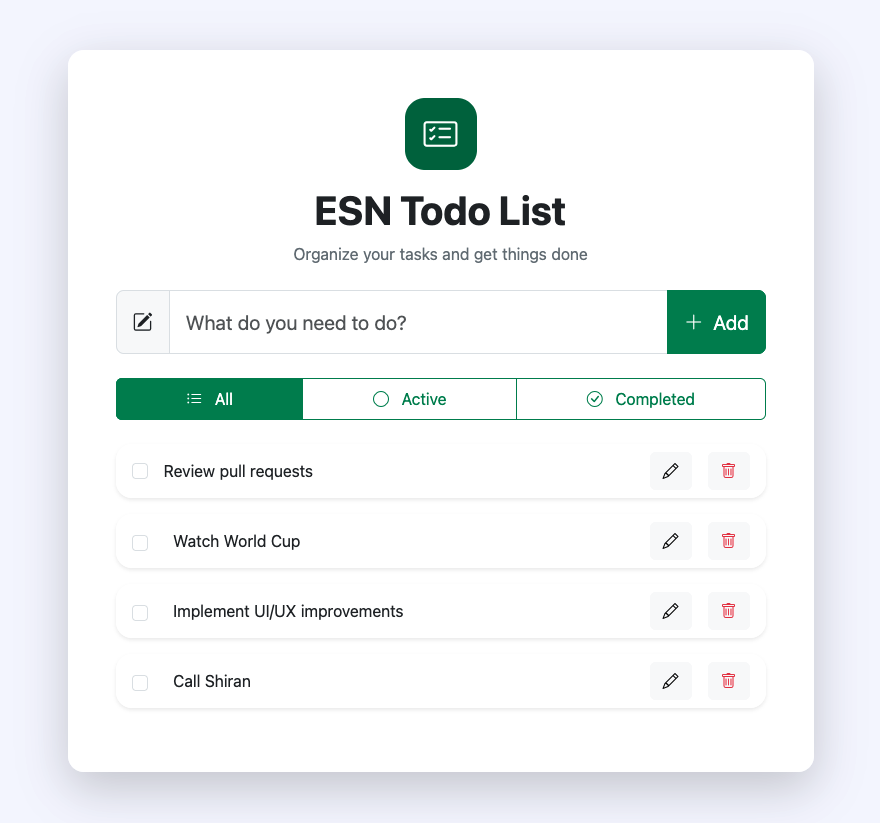
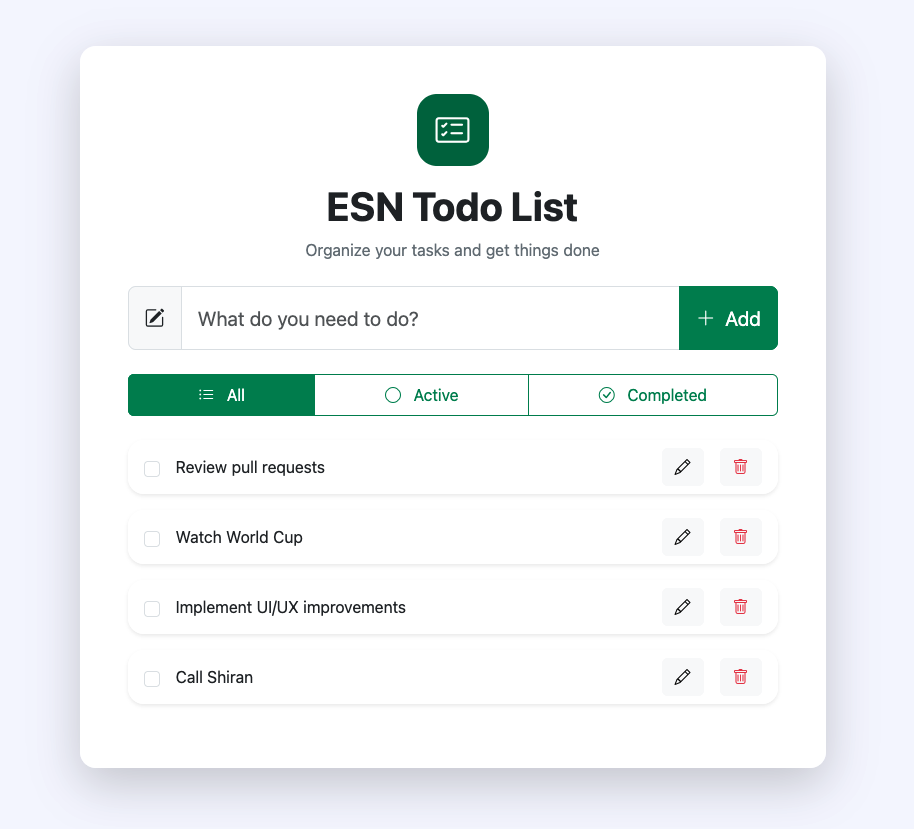
replace screenshot

diff --git a/README.md b/README.md
@@ -2,7 +2,7 @@
 
 ![Application Screenshot](screenshot.png)
 
-A simple Todo List application built as part of the ESN technical assignment using Laravel, MySQL, Bootstrap and jQuery
+A simple Todo List application built using Laravel, MySQL, Bootstrap and jQuery
 
 ## Features
 